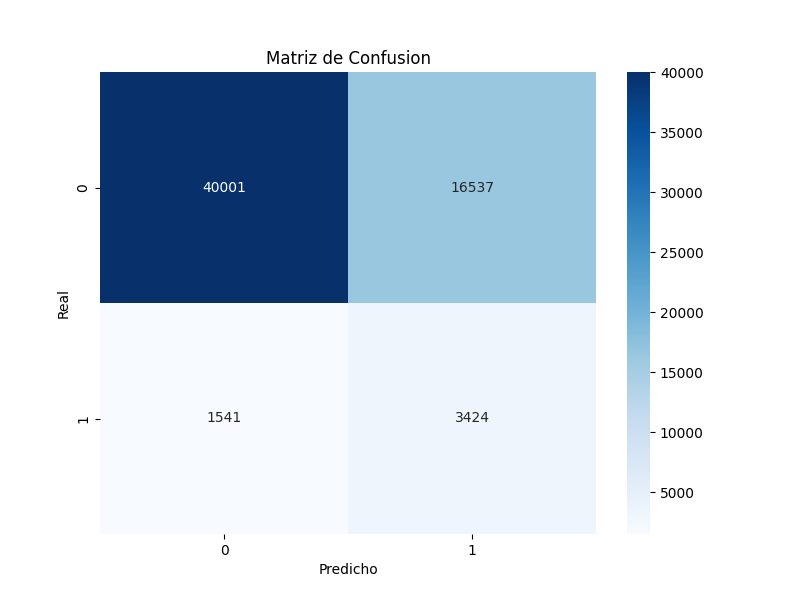
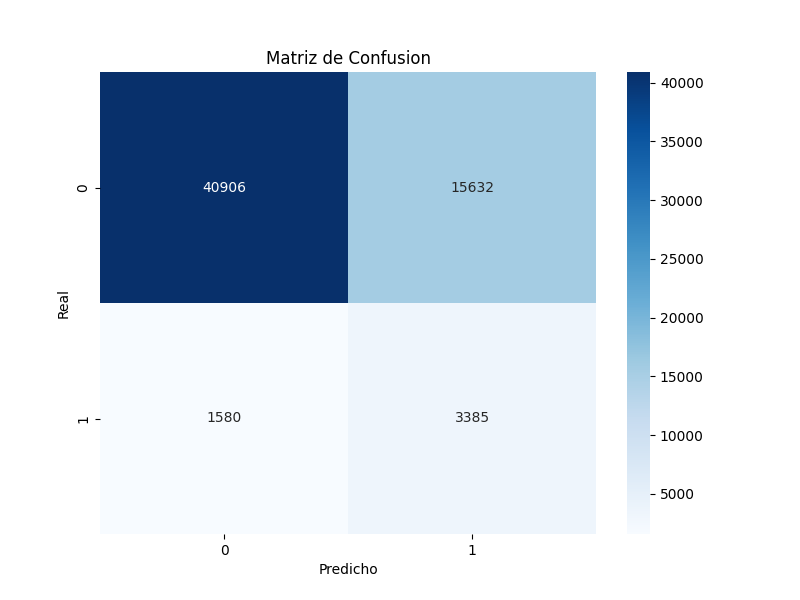
Agregadas mejoras para aumentar el AUC del Modelo

diff --git a/03_modeling/train_model.py b/03_modeling/train_model.py
@@ -24,7 +24,6 @@ def train():
         print("Error: No existe la columna TARGET")
         return
 
-    # Seleccionar solo numericas
     X = df.select_dtypes(include=[np.number]).drop(columns=['TARGET', 'SK_ID_CURR'], errors='ignore')
     y = df['TARGET']
     
@@ -34,11 +33,15 @@ def train():
     
     ratio = float(np.sum(y == 0)) / np.sum(y == 1)
     
+    print("Ajustando desbalance (Ratio: {:.2f})...".format(ratio))
+    
     model = XGBClassifier(
-        n_estimators=100,
-        max_depth=4,
-        learning_rate=0.1,
-        scale_pos_weight=ratio,
+        n_estimators=200,
+        max_depth=5,  
+        learning_rate=0.05, 
+        scale_pos_weight=ratio, 
+        subsample=0.8,     
+        colsample_bytree=0.8,
         random_state=42,
         n_jobs=-1
     )

diff --git a/02_data_preparation/make_dataset.py b/02_data_preparation/make_dataset.py
@@ -47,9 +47,15 @@ def main():
         del prev, prev_agg
         gc.collect()
 
-    print("Calculando Ratios Financieros...")
+    print("Calculando Ratios Financieros y de Dominio...")
     df_main['PAYMENT_RATE'] = df_main['AMT_ANNUITY'] / df_main['AMT_CREDIT']
     df_main['INCOME_CREDIT_RATIO'] = df_main['AMT_INCOME_TOTAL'] / df_main['AMT_CREDIT']
+    
+    df_main['DAYS_EMPLOYED_PERC'] = df_main['DAYS_EMPLOYED'] / df_main['DAYS_BIRTH']
+    
+    df_main['INCOME_PER_PERSON'] = df_main['AMT_INCOME_TOTAL'] / df_main['CNT_FAM_MEMBERS']
+    
+    df_main['CREDIT_TERM'] = df_main['AMT_ANNUITY'] / df_main['AMT_CREDIT']
 
     print("Limpiando y guardando...")
     df_main = df_main.replace([np.inf, -np.inf], np.nan)
